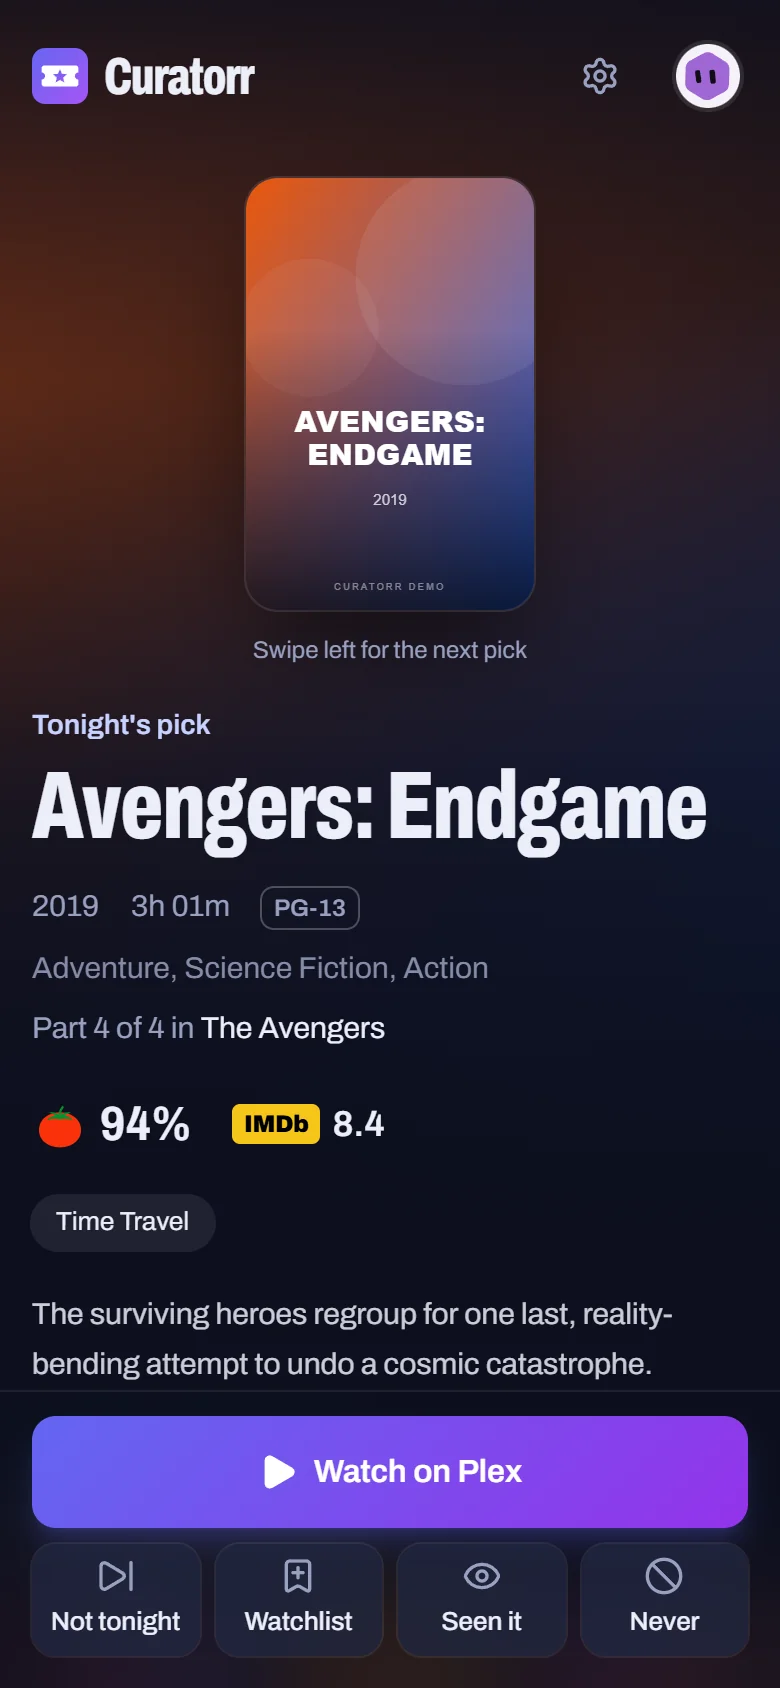
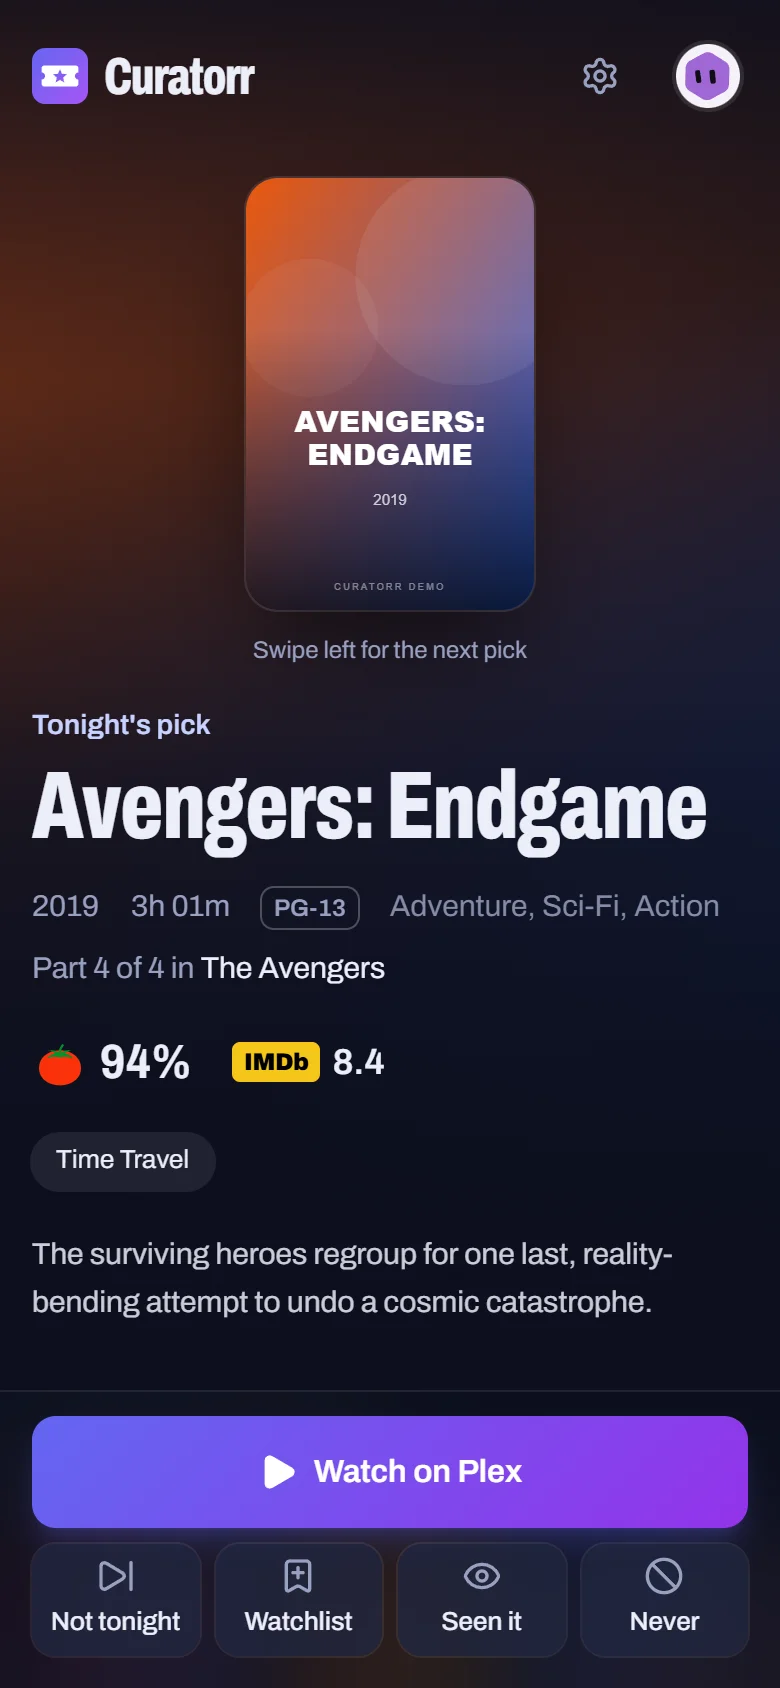
fix(picks): name a pick's genres as the genre tiles do
The line under a pick's title used TMDB's genre names, so a movie from the
Sci-Fi tile was listed as Science Fiction. It now uses the tiles' labels. The
README's pick screenshot is retaken, since it shows that line.

Changed region(s): [[0.0308, 0.5545, 0.8615, 0.8318], [0.4923, 0.5237, 0.6769, 0.5853], [0.7077, 0.5237, 0.9231, 0.5545]]

diff --git a/web/src/screens/Pick.tsx b/web/src/screens/Pick.tsx
@@ -1,5 +1,6 @@
 import {
   JUST_ARRIVED,
+  genreById,
   shelfById,
   wantedReasons,
   type MediaServer,
@@ -520,7 +521,13 @@ export function PickScreen({ search }: { search: URLSearchParams }) {
                     {m.certification && (
                       <span className="rounded-md px-1.5 py-0.5 text-xs font-semibold ring-1 ring-white/25">{m.certification}</span>
                     )}
-                    <span className="text-faint">{m.genres.slice(0, 3).join(', ')}</span>
+                    {/* Named as on the genre tiles: Sci-Fi, not TMDB's Science Fiction. */}
+                    <span className="text-faint">
+                      {m.genres
+                        .slice(0, 3)
+                        .map((g) => genreById.get(g)?.label ?? g)
+                        .join(', ')}
+                    </span>
                   </div>
                   {m.saga && (
                     <p className="mt-2 text-[15px] text-muted">
